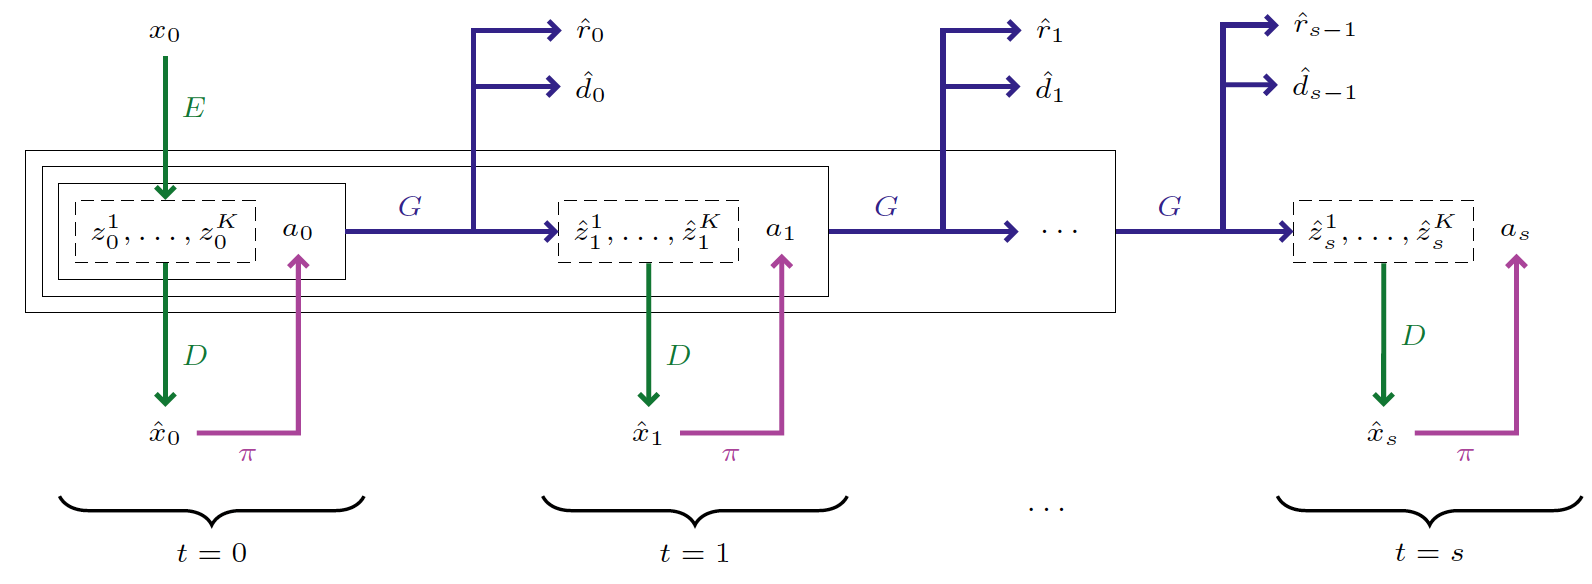
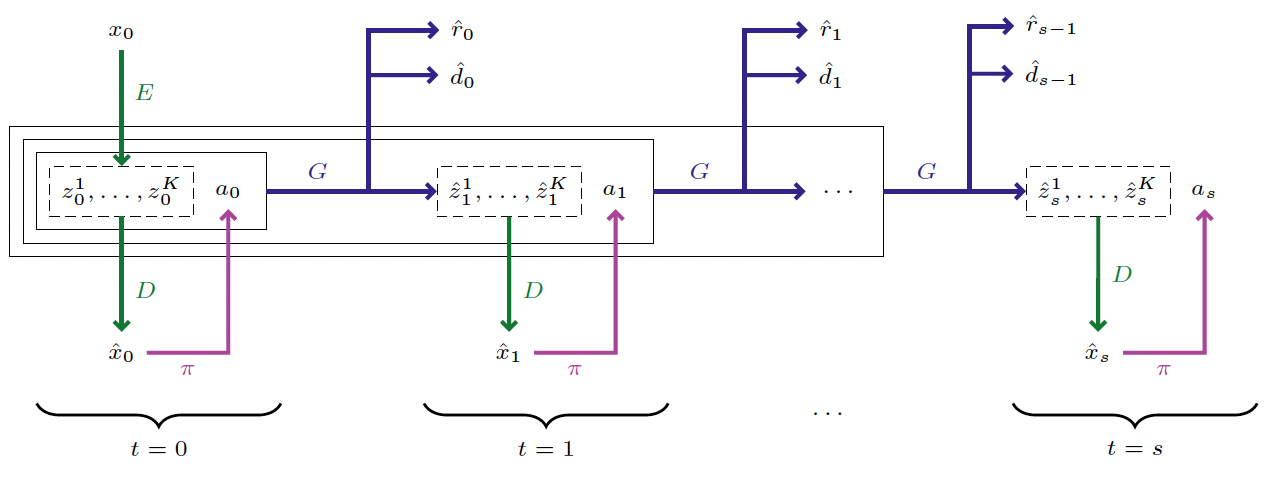
Pushed blog content

diff --git a/index.html b/index.html
@@ -6,8 +6,8 @@
   <!-- Replace the content tag with appropriate information -->
   <meta name="description" content="DESCRIPTION META TAG">
   <meta property="og:title" content="SOCIAL MEDIA TITLE TAG"/>
-  <meta property="og:description" content="SOCIAL MEDIA DESCRIPTION TAG TAG"/>
-  <meta property="og:url" content="URL OF THE WEBSITE"/>
+  <meta property="og:description" content="Behaviour cloning with World Models"/>
+  <meta property="og:url" content="https://suryadheeshjith.github.io/iris_playground/"/>
   <!-- Path to banner image, should be in the path listed below. Optimal dimenssions are 1200X630-->
   <meta property="og:image" content="static/image/your_banner_image.png" />
   <meta property="og:image:width" content="1200"/>
@@ -65,96 +65,192 @@
             <div class="is-size-5 publication-authors">
               <span class="author-block">Courant, New York University<br>DDRL Project Blog (2024)</span>
             </div>
+            <!-- Github link -->
+            <span class="link-block">
+              <a href="https://github.com/suryadheeshjith/iris_playground" target="_blank"
+              class="external-link button is-normal is-rounded is-dark">
+              <span class="icon">
+                <i class="fab fa-github"></i>
+              </span>
+              <span>Code</span>
+            </a>
+          </span>
           </div>
         </div>
       </div>
     </div>
   </section>
 
+
+<!-- Paper abstract -->
+<section class="section hero is-light">
+  <div class="container is-max-desktop">
+    <div class="columns is-centered has-text-centered">
+      <div class="column is-four-fifths">
+        <h2 class="title is-3">Abstract</h2>
+        <div class="content has-text-justified">
+          <p>In this project, we combine behavior cloning and world models, two techniques that are frequently used for their in-environment sample efficiency. Building on IRIS, a recent transformer-based world model system, we evaluate our approach using 3 Atari environments of differing difficulty levels from the Atari100k benchmark which uses 100k steps in the environment corresponding to 2 hours of real-time gameplay. We explore different methods of using behavior cloning and our findings show that IRIS agents trained with behavior cloning outperform the baseline model in two out of the three tested environments.
+          </p>
+        </div>
+      </div>
+    </div>
+  </div>
+</section>
+<!-- End paper abstract -->
+
+
   <!-- Introduction -->
   <section class="section" id="Introduction">
     <div class="container is-max-desktop content">
       <h2 class="title">Introduction</h2>
       <p>
-        Reinforcement learning has been a popular research area in the field of artificial intelligence. The use of World Models has been a popular approach to solve the 
-        problem of model-based reinforcement learning. The project aims to explore the use of Behaviour Cloning Algorithms in World Models. In the following sections, we 
-        briefly explain World Models and Behaviour Cloning.
+        One key challenge in the field of Reinforcement Learning is its sample-inefficiency. Popular on-policy algorithms like REINFORCE or PPO frequently require millions of optimization steps and interactions with an environment, making them a subpar choice for computationally expensive environments or real-world rollouts.
+      <br/><br/>
+        Recent approaches in the space of model-based RL like ‘Dreamer-v3’ or ‘IRIS’ have attempted to tackle this problem by learning a ‘world model’, a model of the environment which predicts future states of the environment given actions. Such approaches have significantly cut down on the number of interactions with the real environment, with IRIS using only 100k steps, roughly 2 hours of real-world play time, on its Atari benchmarks.
+      <br/><br/>
+
+      Simultaneously, some research has used behavior cloning (BC), an approach which reframes decision-making as a supervised learning task, to avoid expensive and sample-inefficient reinforcement learning training runs altogether. Behavior cloning is also frequently used to initialize agents for further training, which can improve agents and speed up their training time.
+      Combining these approaches leads to multiple potential benefits:
+      <br/>
+      Firstly, during initial epochs, the world models are typically trained using rollouts from an untrained actor. While this strategy might lead to a lot of exploration, the world model will not be able to train on later parts of gameplay and good actions until the actor starts improving. By using a BC actor, we may get better and more representative trajectories to learn the world model from.
+      Secondly, while BC is often a fast way to gain a strong initialization, it frequently fails to generalize well to states outside of its training dataset. By continuing to train the actor using on-policy learning in the world model, we can make the actor more resilient and perform better.<br/><br/>
+      We use Atari environments in our experiments because there are numerous available benchmarks, including from IRIS itself. 
+      <br/><br/>
+      In this blog post we will first outline our experiments learning world models in state space, and why we abandoned this approach. Then, we will elaborate on our approach to behavior cloning and how we collected samples. Then, we will explain how our system is put together end-to-end and what steps were taken to improve on a naive BC initialization. Finally, we discuss our results and takeaways.
+
       </p>
-      <h3 class="subtitle">World Models</h3>
-      World models are sample efficient ... but ... 
-      Model-based .... (Clear difference between the two)
-
-      We use an agent called IRIS that trains in a transformer-based world model.
-
-      <h3 class="subtitle">Behaviour Cloning</h3>
-      Behaviour cloning is a simple and effective way to learn a policy from expert demonstrations. It is a supervised learning approach where the agent learns to mimic 
-      the expert's actions. The agent is trained on a dataset of expert demonstrations and learns to predict the actions of the expert given the state of the environment.
-      
     </div>
   </section>
-
-  <!-- Model Architecture -->
-  <section class="section" id="Model-Architecture">
+  <section class="section" id="IRIS">
     <div class="container is-max-desktop content">
-      <h2 class="title">World Model Architecture</h2>
+      <h2 class="title">IRIS</h2>
       <p>
-        IRIS learn its policy using a World model consisting of an encoder, decoder, and a transformer. The encoder is responsible for encoding the input image observations into a latent space
-        representation. The decoder is responsible for decoding the latent space representation back into the image space. The transformer is responsible for learning the
-        dynamics of the environment by autoregressively producing the next state, reward, and done signal, given the previous states and actions.
-      </p>
-      <br/>
+      We built our system around IRIS  because of the relative simplicity of its architecture. While Dreamer-v3 uses a lot of complicated tricks and components to train its model, IRIS is primarily built out of 3 components: An autoencoder, a GPT-like decoder-only transformer, which acts as the world model, and an actor network.
+      <br/><br/>
+
       <div style="text-align: center;">
-        <img src="static/images/iris_arch.png" alt="IRIS Architecture" width="80%">
+        <img src="static/images/iris_fig.png" alt="IRIS Architecture" width="80%">
         <br/>
         Autoregressive rollout of image observations in the world model using Encoder E, Decoder D and World model Transformer G. IRIS agent is represented by &pi;. Image taken from <cr cite='#bib01'>[1]</cr>
       </div>
+
+      <br/>
+      As shown in Figure x, The autoencoder outputs a series of latent representations from atari observations, and decodes latent representations back to the observation space, which the actor uses to predict actions. The world model takes the latent representations and predicted action and outputs a predicted latent representation of the future state. 
+
+      <br/><br/>
+      IRIS spends 50 epochs training the world model and tokenizer using their autoencoder and world model loss, before train the agent using the REINFORCE algorithm with advantage estimation and an entropy bonus on imagined trajectories.
+    </p>
     </div>
   </section>
-
-  <!-- Image-space vs State-space -->
-  <section class="section" id="ImagevsState">
+  <section class="section" id="State-space Observations">
     <div class="container is-max-desktop content">
-      <h2 class="title">Image-space vs State-space</h2>
-
-      Atari gym has two different observation types...Explain image and ram based observations. We opted to use state space due to resources ... but found it 
-      more difficult to train.
-    </div>
-  </section>
-
-  <!-- Data Collection-->
-  <section class="section" id="Data-Collection">
-    <div class="container is-max-desktop content">
-      <h2 class="title">Behaviour Cloning Data Collection</h2>
+      <h2 class="title">State-space or Image-space Observations?</h2>
       <p>
-        We collected data from expert demonstrations to train the model. The expert demonstrations were collected using ...
+      The original Atari2600 console represented each game’s state using 128 bytes in its RAM, which is a significantly smaller representation than pixel space observations. As an initial stage in our project, we wanted to investigate the feasibility of learning a world model using only the environment’s RAM output instead of images. By taking this approach we could potentially cut down on the amount of compute needed, and eliminate the autoencoder from IRIS’ architecture, thereby reducing the number of components that need to be trained in tandem.
+      <br/><br/>
+      In our experiments, we used RAM-only environments and matched the frame stacking logic used in pixel space IRIS to ensure the model has time-based data. For our BC data collection, we used expert rollouts in pixel space and accessed the underlying ALE (Arcade Learning Environment) in order to collect the RAM observations.
+      <br/><br/>
+      However, our experimental runs showed that when attempting to learn from RAM only, we fail to learn a good world model, and thus fail to learn a good agent.
+      <br/><br/>
+      This result unfortunately seems in line with other empirical findings on using the Atari RAM observations when training traditional RL agents: Even though it is tempting to think that a more dense representation will lead to better results and better learning, we found that learning IRIS agents using RAM observations takes significantly more training steps. 
+      
+      <strong>Since our initial hypothesis of faster training times did not hold true, we discarded this approach and moved forward with training in pixel space.</strong>
+    </p>
+    </div>
+  </section>
+  <section class="section" id="Behavior Cloning">
+    <div class="container is-max-desktop content">
+      <h2 class="title">Behavior Cloning Data Collection</h2>
+      <p>
+      In order to put together our system for BC training, we require an expert dataset. Since we are working on Atari environments, we chose to use existing trained agents. This was done for simplicity, but depending on the task it would be entirely sensible to use human expert data or other data sources.
+      <br/><br/>
+      To be able to learn well using behavior cloning, we need to ensure that the training data covers as much of the state space as possible. We additionally need to avoid some common pitfalls, like including contradictory data (different expert actions given the same observation). And, since we are intending to use this BC pre-training as initialization for downstream world model training, we need to match the shape of our collected observations to the shape of observations that IRIS uses.
+      <br/><br/>
+      While collecting the data, we included improvements based on prior work in BC for Atari: 
 
-        What we tried .. what didnt work...
+      <ol>
+        <li>Sticky actions: If we take repeated steps in the environment using a set sticky action probability while continuing to store the expert-predicted actions in our dataset, the expert data will cover a larger amount of the state space.
+        </li>
+        <li>Initial random steps: By spending a set number of initial steps acting randomly, the expert dataset will reflect a more diverse range of starting positions.
+        </li>
+      </ol>
+      <br/>
+      These parameters need to be tuned based on the game being played. For example, using a large number of initial random steps on Breakout, the expert will simply lose.
+      <br/><br/>
+      When working in imagination, IRIS uses 20 frames of context for its world model and actor. At the beginning of the imagined trajectory, the actor’s LSTM hidden states and context are initialized with these 20 frames. We tested different context lengths for our BC training and found that the actor learns better when given more context, so we collected sufficient information to match the context length provided by IRIS for each of our target actions.
+    </p>
+    </div>
+  </section>
+
+  <section class="section" id="Behavior Cloning Pretraining">
+    <div class="container is-max-desktop content">
+      <h2 class="title">Pretraining with Behavior Cloning</h2>
+      <p>
+        When initially pretraining our agent using behavior cloning, we quickly achieve high train accuracies of up to 99%, but with significant overfitting, where evaluation accuracy lags significantly behind. There are several possible reasons for this: Firstly, the environments are simple, but the state space is large, and despite using tricks when collecting the train set we may not have sufficient coverage for the model to generalize well. Secondly, there may be ambiguous observations, where the agent could take multiple legitimate moves, for which the model learns to memorize the correct answer in the train set.
+        <br/><br/>
+        <div style="text-align: center;">
+          <img src="static/images/bc_fig.png" alt="BC" width="80%">
+          <br/>
+          BC Pretraining
+        </div>
+        <br/>
+        By looking at the performance of the actor in evaluation trajectories, we can see that performance is acceptable but not great, suggesting that we are correctly learning some behaviors but not generalizing well. To boost the performance of our agent and reduce overfitting, we used common regularization techniques like weight decay, as well as commonly used frame augmentations like Random Shifts. Additionally, increasing the size of the dataset also had a huge impact on how well the model generalizes.
+        <br/><br/>
+        The best setting for pretraining included a BC dataset with 150k samples trained for 6 hours across all environments.
+      </p>
+      <h3 class="title">Technical Considerations</h3>
+      <p>
+        Unlike many current on-policy Atari agents, IRIS uses 64 x 64 observations with 3 color channels, which leads to additional complexity when collecting data through the gym environment.
+        <br/><br/>
+        Throughout this project, we attempted using experts from vae behavior cloning (cite), stable-baselines zoo, stable-baselines3 zoo, atari agents, and finally AtariARI. Throughout this process we found that most agents were trained using grayscale observations using the default resized dimensions of 84 x 84.
+        <br/><br/>
+        We used AtariARI’s trained PPO models in combination with OpenAI’s Gym environment. Since AtariARI’s agents are also trained on 84 x 84 grayscale observations, we collected observations by running two environments initialized with the same seed in parallel, one of them to provide grayscale observations to the expert, while the other provided multi-color observations which we saved for training our agents. 
+        <br/><br/>
+      </p>
+      <h3 class="title">Pretraining Results</h3>
+      <p>
+      When initially pretraining our agent using behavior cloning, we quickly achieve high train accuracies of up to 99%, but with significant overfitting, where evaluation accuracy lags significantly behind. There are several possible reasons for this: Firstly, the environments are simple, but the state space is large, and despite using tricks when collecting the train set we may not have sufficient coverage for the model to generalize well. Secondly, there may be ambiguous observations, where the agent could take multiple legitimate moves, for which the model learns to memorize the correct answer in the train set.
+      <br/><br/>
+      By looking at the performance of the actor in evaluation trajectories, we can see that performance is acceptable but not great, suggesting that we are correctly learning some behaviors but not generalizing well. To boost the performance of our agent and reduce overfitting, we used common regularization techniques like weight decay, as well as commonly used frame augmentations like Random Shifts. Additionally, increasing the size of the dataset also had a huge impact on how well the model generalizes.
+      <br/><br/>
+      The best setting for pretraining included a BC dataset with 150k samples trained for 6 hours across all environments.
+    </p>
+    </div>
+  </section>
+
+  <section class="section" id="Training IRIS">
+    <div class="container is-max-desktop content">
+      <h2 class="title">Training IRIS with Pretrained Agent</h2>
+      <p>
+        We first implemented a naive version of behavior cloning initialization for IRIS. After completing our BC agent pretraining, we simply loaded the pre-trained agent and proceeded with training IRIS as normal.
+        <br/><br/>
+        There are a few risks associated with this approach: Notably, IRIS’ actor uses a value function for advantage estimation, which is untrained at the point of launching the IRIS training. This could potentially lead to bad gradient updates and a collapse, similar to what we observed in our homework assignment 2.
+        <br/><br/>
+        Thus, we experimented with BC regularization, where we include an additional BC loss term based on our collected BC dataset while training IRIS. This BC loss term is weighted against the REINFORCE loss of IRIS according to a weighting factor, alpha. Concretely, the ‘policy loss’ becomes:
+        <br/><br/>
+
+        For our final evaluation, we run 4 experiments for each environment: 
+        <ol>
+          <li>Naive BC initialization</li>
+          <li>BC regularization following a cosine decaying pattern</li>
+          <li>BC regularization following an exponential decaying pattern</li>
+          <li>BC regularization following a constant weighting</li>
+        </ol>
+        <br/>
+        We wanted a selection of environments of different difficulty levels. Based on human-normalized scores with respect to the IRIS agent, we selected Breakout (Easy), Demon Attack (Medium) and Ms Pacman (Hard) as our environments for evaluation. Each experiment was trained for 24 hours on a single RTX8000 GPU, and the final results were computed by taking an average over 64 gameplay trajectories.
       </p>
     </div>
   </section>
 
-    <!-- BCRL -->
-    <section class="section" id="ImagevsState">
-      <div class="container is-max-desktop content">
-        <h2 class="title">BCRL</h2>
-
-        <br/>
-      All models have been trained on a single RTX8000 GPU for __ hours.
-
-  
-      <h3 class>BC Training Data</h3>
-      Difficulty in training...
-    
-    <h3 class>IRIS</h3>
-    insert video examples
-
-    <h3 class>BC</h3>
-    insert video examples
-
-    <h3 class>BC+IRIS</h3>
-    insert video examples
-  </div>
-</section>
+  <section class="section" id="Results">
+    <div class="container is-max-desktop content">
+      <h2 class="title">Results</h2>
+      <p>
+      
+        
+      </p>
+    </div>
+  </section>
 
   <!-- Conclusion -->
   <section class="section" id="Conclusion">
@@ -163,11 +259,13 @@
       <p>
         In this project, we ...
       </p>
+    </div>
+  </section>
 
     <!-- References --> 
     <section class="section" id="References">
       <div class="container is-max-desktop content">
-        <h2 class="title">Bibliography</h2>
+        <h2 class="title">References</h2>
           <ol>
             <li id='bib01'>Micheli, V., Alonso, E., & Fleuret, F. (2022). Transformers are sample-efficient world models. arXiv preprint arXiv:2209.00588.</li>
             <li id='bib02'>Anand, A., Racah, E., Ozair, S., Bengio, Y., Côté, M. A., & Hjelm, R. D. (2019). Unsupervised state representation learning in atari. Advances in neural information processing systems, 32.</li>
